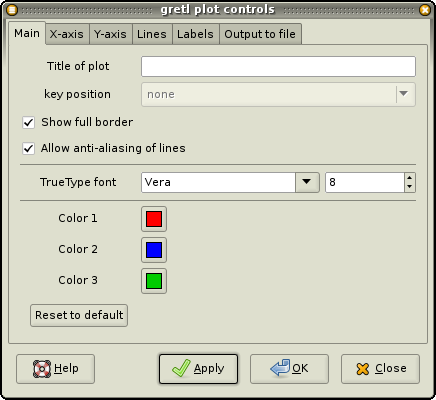
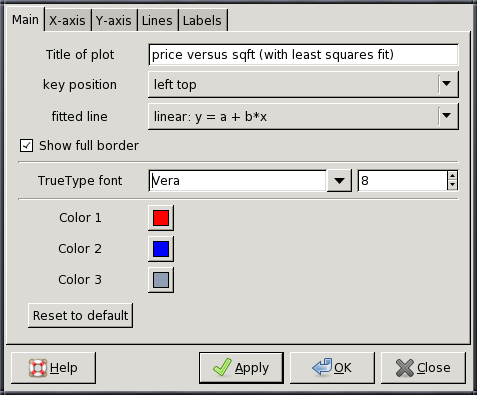
update docs re. gnuplot control

Changed region(s): [[0.0, 0.0, 1.0, 1.0], [0.1193, 0.6684, 0.2385, 0.7291], [0.1193, 0.6076, 0.2385, 0.638]]

diff --git a/doc/tex/graphs.tex b/doc/tex/graphs.tex
@@ -78,27 +78,21 @@ labels''.
 
 If you know something about \app{gnuplot} and wish to get finer
 control over the appearance of a graph than is available via the
-graphical controller (``Edit'' option), you have two further options.
+graphical controller (``Edit'' option), here's what to do.  In the
+graph display window, right-click and choose ``Save to session as
+icon''.  Then open the icon view window --- either via the menu item
+View/Icon view, or by clicking the ``session icon view'' button on the
+main-window toolbar.  You should see an icon representing your graph.
+Right-click on that and select ``Edit plot commands'' from the pop-up
+menu.  This opens an editing window with the actual gnuplot commands
+displayed. You can edit these commands and either save them for future
+processing or send them to gnuplot, using the Execute (cogwheel)
+button on the toolbar in the plot commands editing window.
 
-\begin{itemize}
-\item Once the graph is saved as a session icon, you can right-click
-  on its icon for a further pop-up menu.  One of the options here is
-  ``Edit plot commands'', which opens an editing window with the
-  actual gnuplot commands displayed. You can edit these commands and
-  either save them for future processing or send them to gnuplot (with
-  the Execute icon on the toolbar in the plot commands editing
-  window).
-\item Another way to save the plot commands (or to save the displayed
-  plot in formats other than EPS or PNG) is to use ``Edit'' item on a
-  graph's pop-up menu to invoke the graphical controller, then click
-  on the ``Output to file'' tab in the controller.  You are then
-  presented with a drop-down menu of formats in which to save the
-  graph.
-\end{itemize}
-
-To find out more about \app{gnuplot} see the
-\href{http://ricardo.ecn.wfu.edu/gnuplot.html}{online manual} or
-\href{http://www.gnuplot.info/}{www.gnuplot.info}.
+To find out more about \app{gnuplot} visit
+\href{http://www.gnuplot.info/}{www.gnuplot.info}. This site has
+documentation for the current version of the program in various
+formats.  
 
 See also the entry for \cmd{gnuplot} in the \emph{Gretl Command
   Reference} --- and the \cmd{graph} and \cmd{plot} commands for

diff --git a/gui2/gpt_dialog.c b/gui2/gpt_dialog.c
@@ -56,7 +56,6 @@ static GtkWidget *labelpos[MAX_PLOT_LABELS];
 static GtkWidget *gpt_control;
 static GtkWidget *keycombo;
 static GtkWidget *fitcombo;
-static GtkWidget *termcombo;
 static GtkWidget *border_check;
 static GtkWidget *markers_check;
 static GtkWidget *y2_check;
